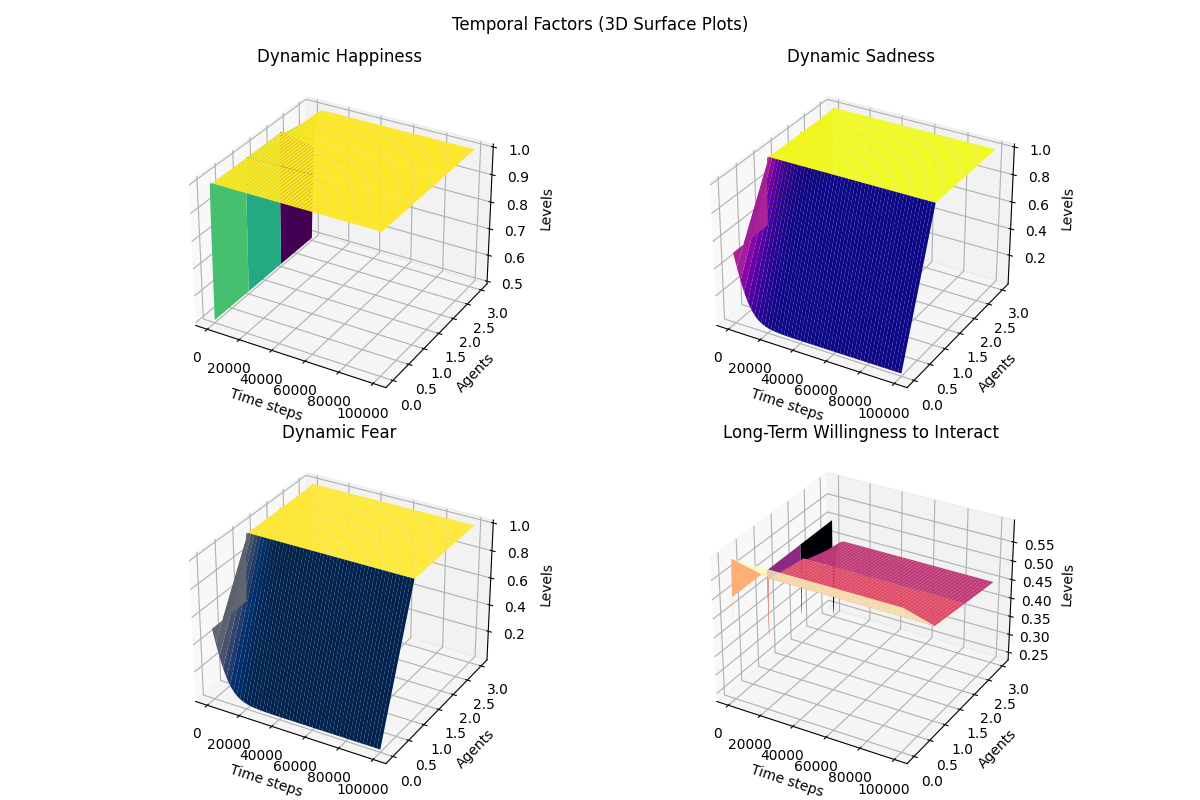
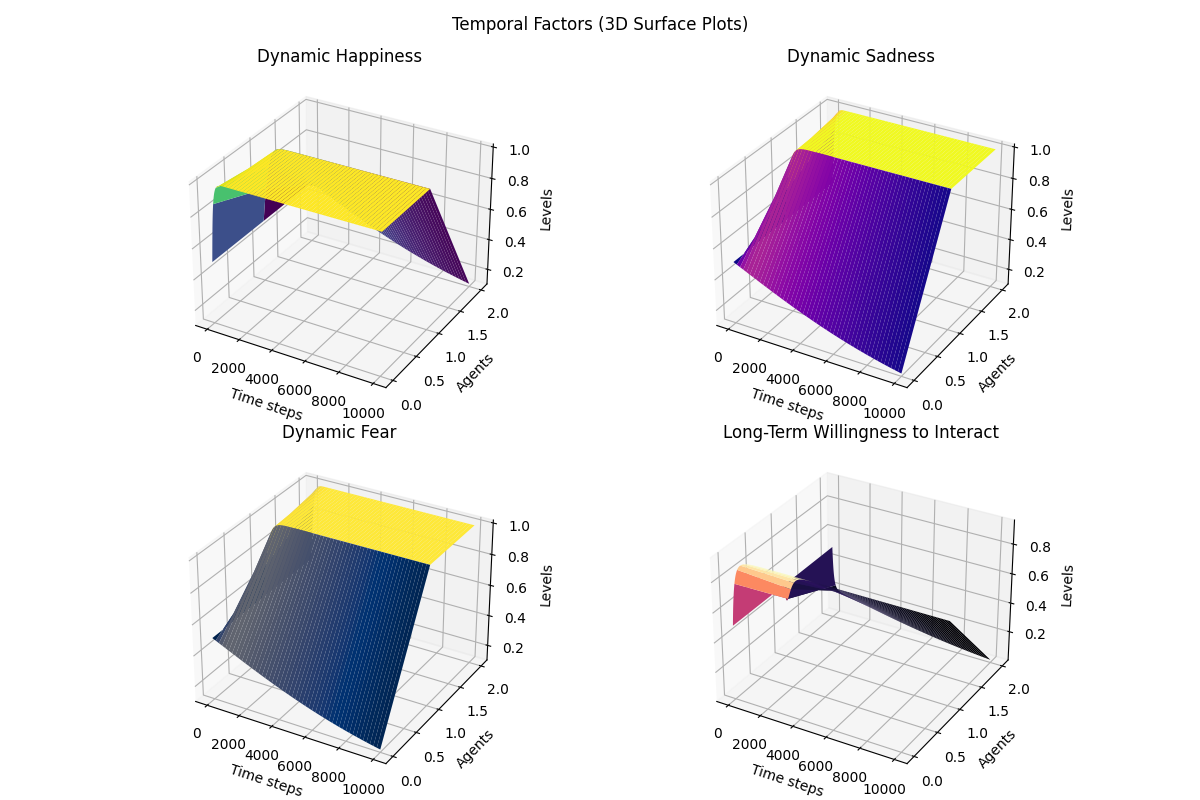
Fixed similarity, doing gates

diff --git a/main.py b/main.py
@@ -37,7 +37,7 @@ app.mount("/static", StaticFiles(directory=STATIC_DIR), name="static")
 tv_positions = []
 agents_list = []
 
-GNumStep = 100000
+GNumStep = 10000
 
 #Translate iput for religion and culture (either or kinda thing)
 def translate(input):
@@ -98,7 +98,7 @@ def extrovert_index(agent_behaviour):
     return ready_to_interact_index, willing_to_interact_index
 
 
-def Gate1(date_str, festivals):
+def Gate4(date_str, festivals):
     input_date = datetime.strptime(date_str, "%Y-%m-%d")
     
     #Check whole general festival dates
@@ -132,7 +132,7 @@ def Gate2(date_str, festivals):
     return False, "", ""
   
     
-def Gate3(agent_behaviour, agent_int, agent_cult, int_count, int_avg, cult_count, cult_avg):
+def Gate1(agent_behaviour, agent_int, agent_cult, int_count, int_avg, cult_count, cult_avg):
     
     if(not has_extrovert(agent_behaviour=agent_behaviour, type="willing")):
         return False
@@ -146,7 +146,7 @@ def Gate3(agent_behaviour, agent_int, agent_cult, int_count, int_avg, cult_count
 
 
 #Decision Model
-def decision_model(date, agent_behaviour, interest_count, agent_interest, agent_culture, culture_count, interest_avg, culture_avg):
+def decision_model(date, agent_behaviour, interest_count, agent_interest, agent_culture, culture_count, interest_arr, culture_arr):
     
     contentURL = ""
     
@@ -281,51 +281,43 @@ def clustering(agent_array,agent_detail, agent_interest, agent_culture, tv_array
 
 #region Similarities
 
-#-------------------------------------------------- Jaccard Similarity
-def jaccard(set1, set2):
-    intersection = sum([1 for a, b in zip(set1, set2) if a == b == True])
-    union = sum([1 for a, b in zip(set1, set2) if a == True or b == True])
-    return intersection / union if union != 0 else 0
+#-------------------------------------------------- Similarity AND Algo
 
-#-------------------------------------------------- Jaccard Similarity
-def agent_similarity(Packets, type):      #Plan to pass both interest and cultural packets
+def agent_similarity(Packets):      #Plan to pass both interest and cultural packets
+    
+    def sim(set1, set2):
+        return 1 if any(a&b for a,b in zip(set1,set2)) else 0
+
+    def OR_algo(similarity_matrix):
+        # Perform a logical OR operation across each row
+        return [1 if any(row) else 0 for row in similarity_matrix]
+    
+    print("---- Old Sim Algo ----")
+    print("Input:")
+    print(Packets)
+    print("")
+    
     similarities = np.zeros((len(Packets), len(Packets)))
-    average_similarities = []
+    # print(f"Similarity intialisation: \n{similarities}")
     count_similar = []
     
     for i in range(len(Packets)):          #Excesses each agent detail in packet
         for j in range(i, len(Packets)):
-            similarity = jaccard(Packets[i], Packets[j]) 
+            similarity = sim(Packets[i], Packets[j]) 
             similarities[i][j] = similarity
             similarities[j][i] = similarity
-                
-    average_similarities = []
-    for i in range(len(Packets)):
-        avg_similarity = (np.sum(similarities[i]) - similarities[i][i]) / (len(Packets) - 1)
-        average_similarities.append(avg_similarity)
-        
+        # print(f"Similarity[i]: \n{similarities[i]}")
+    
     #Count function
     count_similar =  [0] * len(Packets[0])  
     for array in Packets:
         count_similar = [a + b for a, b in zip(count_similar, array)]
     
-    print(f"Basic Avg: {average_similarities}")
-    print(f"Counted Array: {count_similar}")
+    # print(f"Basic Avg: {average_similarities}")
+    # print(f"Counted Array: {count_similar}")
+
         
-    # # Printing the similarities in a tabular format
-    # print("Agent Pair | Jaccard Similarity")
-    # print("-----------|-------------------")
-    # for i in range(len(Packets)):
-    #     for j in range(len(Packets)):
-    #         if i != j: 
-    #             print(f" {i}{j} | {similarities[i][j]:.4f}") 
-    
-    # # Printing the average similarities 
-    # print("\nAverage Similarities per Agent:")
-    # for i in range(len(Packets)):
-    #     print(f"Agent {i}: {average_similarities[i]:.4f}")
-        
-    return average_similarities, count_similar
+    return OR_algo(similarities), count_similar
 
 
 #endregion
@@ -725,16 +717,16 @@ async def simulate(request: Request, db: Session = Depends(get_db), date: str = 
         #-------------------------- Interest Similarities -----------------------------------------
         print("---- Similarity and Model Adjustment ----")
         # print("----------------Interest Similarities-----------------")
-        avg_sim, count_int = agent_similarity(agent_interest, "interest")
-        cluster_interest.append(avg_sim)
+        or_sim, count_int = agent_similarity(agent_interest)
+        cluster_interest.append(or_sim)
         cluster_interest_count.append(count_int)
         # print(cluster_interest)
         
         #-------------------------- Cultural Similarities -----------------------------------------
         
         # print("----------------Cultural Similarities-----------------")
-        avg_cult, count_cult = agent_similarity(agent_culture, "culture")
-        cluster_culture.append(avg_cult)
+        or_cult, count_cult = agent_similarity(agent_culture)
+        cluster_culture.append(or_cult)
         cluster_culture_count.append(count_cult)
         # print(cluster_culture)
         
@@ -800,9 +792,9 @@ async def simulate(request: Request, db: Session = Depends(get_db), date: str = 
                        agent_interest=agent_interest,
                        agent_culture=agent_culture,
                        interest_count=count_int, 
-                       interest_avg=avg_sim,
+                       interest_arr=or_sim,
                        culture_count=count_cult,
-                       culture_avg=avg_cult)
+                       culture_arr=or_cult)
             )
         print("---- Decision model finished ----")
 
